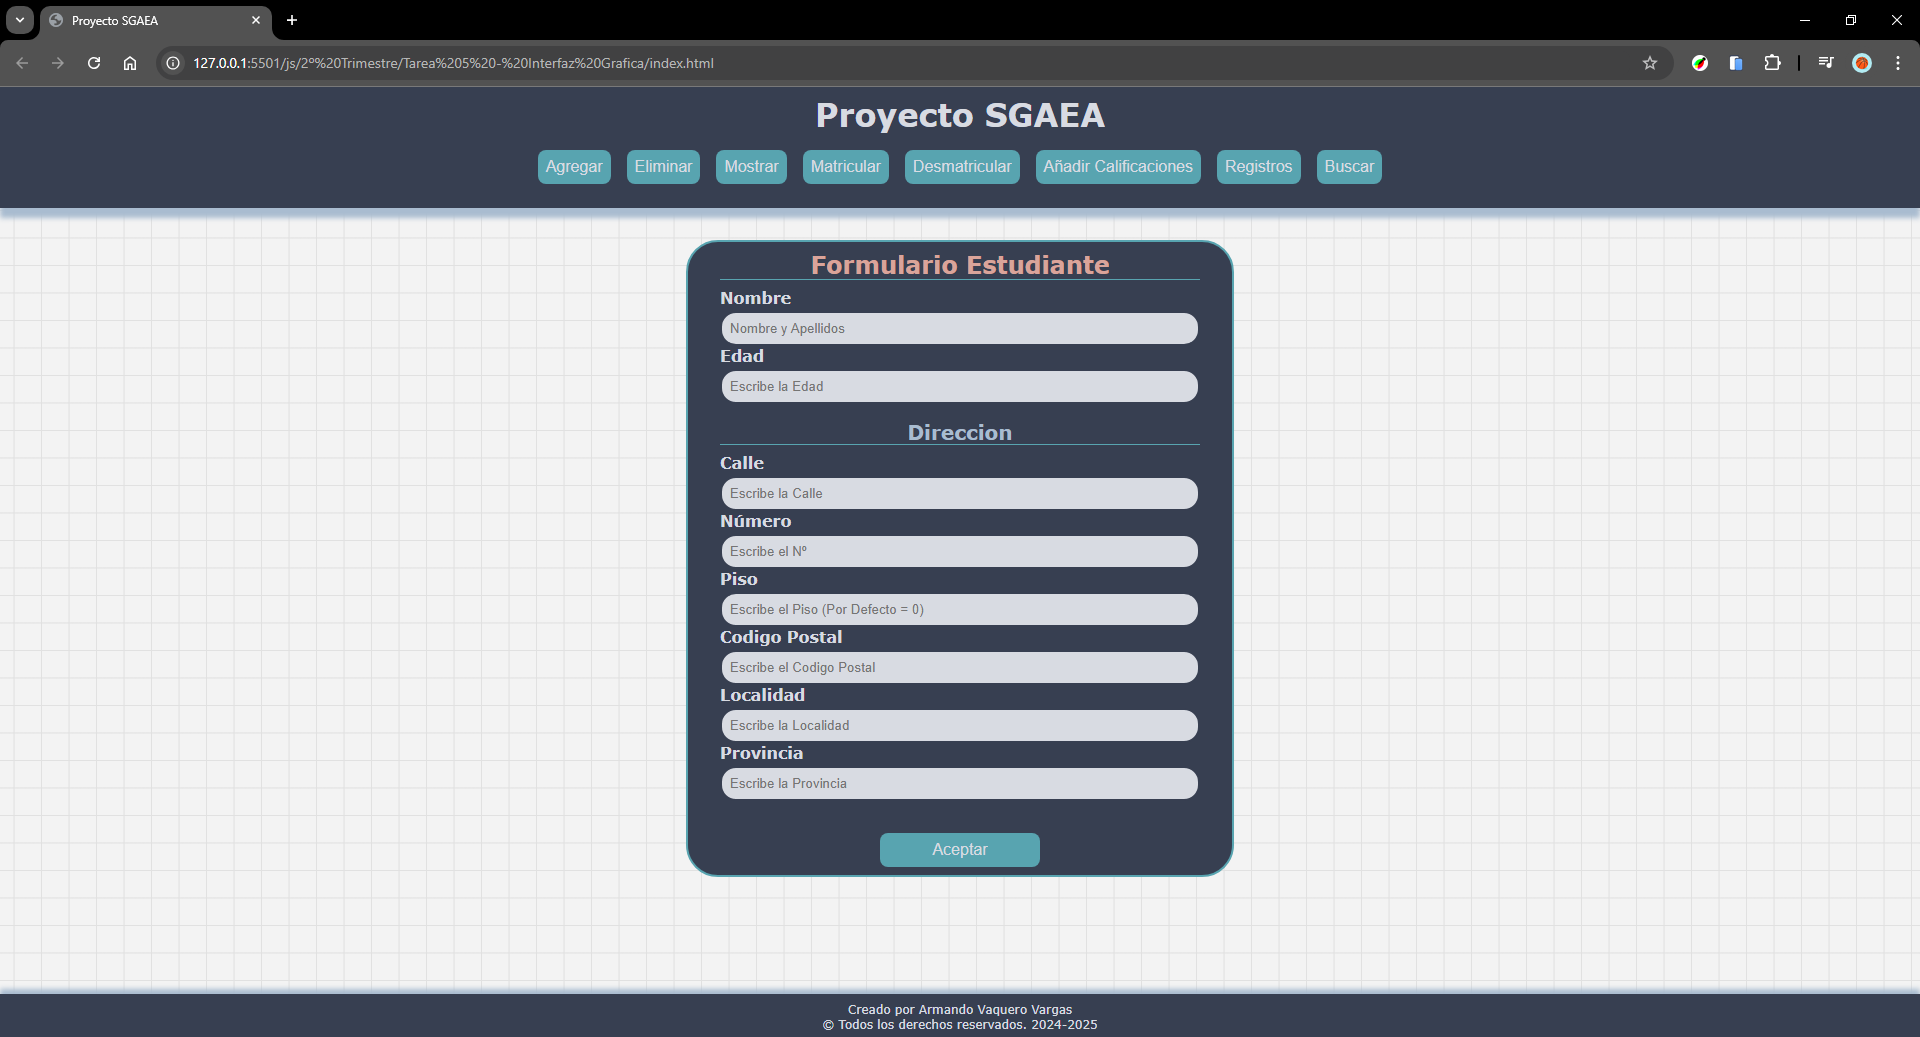
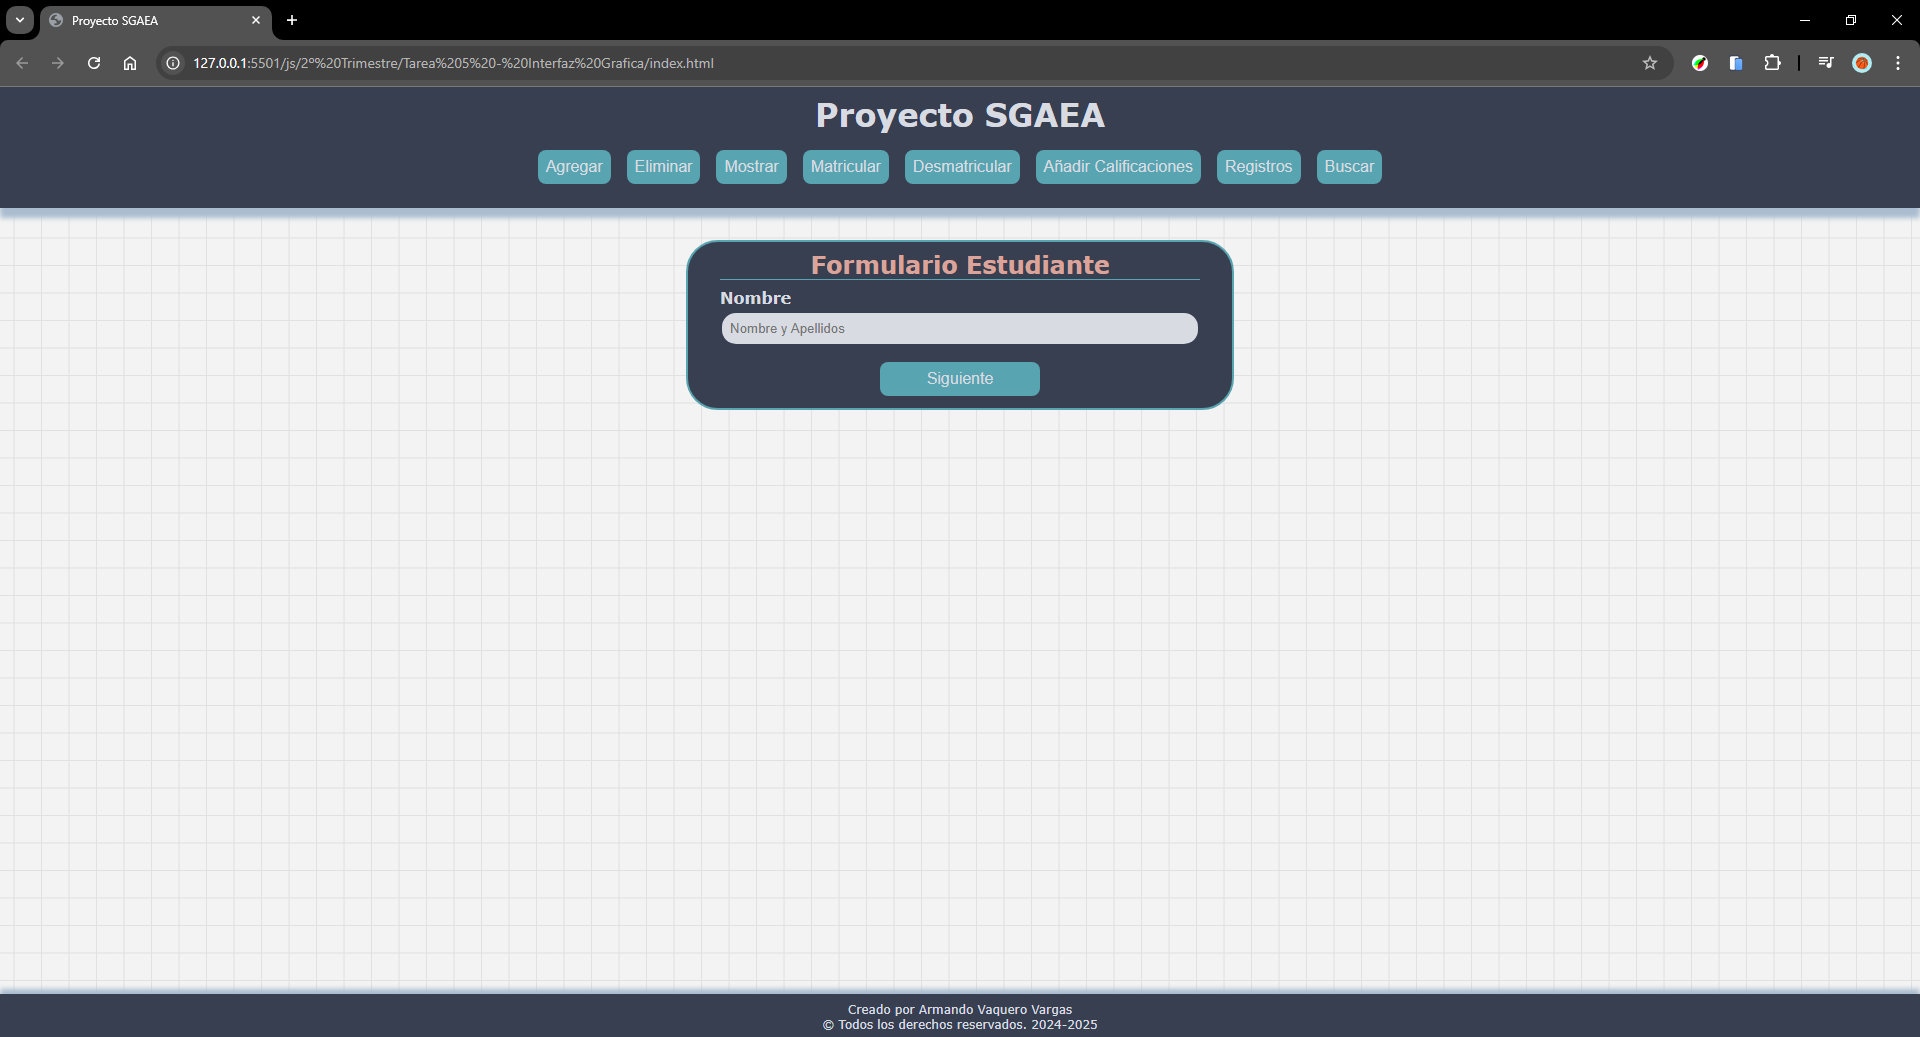
Metodo Agregar Estudiante - Por fases

Changed region(s): [[0.3438, 0.3394, 0.6562, 0.864]]

diff --git a/js/2º Trimestre/Tarea 5 - Interfaz Grafica/Fuente/js/app.js b/js/2º Trimestre/Tarea 5 - Interfaz Grafica/Fuente/js/app.js
@@ -75,41 +75,75 @@ function agregarEstudiante() {
         <form method="post">
             <h1>Formulario Estudiante</h1>
 
-            <label for="nombre">Nombre</label>
-            <input type="text" name="nombre" id="nombre" 
-                pattern="^[A-Za-zÀ-ÿ\\s]+$" placeholder="Nombre y Apellidos" required>
+            <section id="campo-1"> 
+                <label for="nombre">Nombre</label>
+                <input type="text" name="nombre" id="nombre" 
+                    pattern="^[A-Za-zÀ-ÿ\\s]+$" placeholder="Nombre y Apellidos" required>
+                <button type="button" class="siguiente" >Siguiente</button>
+            </section>
 
-            <label for="edad">Edad</label>
-            <input type="number" name="edad" id="edad" 
-                min="6" max="80" placeholder="Escribe la Edad" required>
+            <section class="oculto" id="campo-2">
+                <label for="edad">Edad</label>
+                <input type="number" name="edad" id="edad" 
+                    min="6" max="80" placeholder="Escribe la Edad" required>
+                <button type="button" class="siguiente" >Siguiente</button>
+                <button type="button" class="anterior">Anterior</button>
+            </section>
 
-            <h2>Direccion</h2>
-
-            <label for="calle">Calle</label>
-            <input type="text" name="calle" id="calle" 
-                pattern="^[A-Za-zÀ-ÿ\\s]+$" pattern="" placeholder="Escribe la Calle" required>
-
-            <label for="numero">Número</label>
-            <input type="number" name="numero" id="numero"
-                placeholder="Escribe el Nº" required>
-
-            <label for="piso">Piso</label>
-            <input type="number" name="piso" id="piso"
-                placeholder="Escribe el Piso (Por Defecto = 0)">
+            <section class="oculto" id="campo-3">
+                <h2>Direccion</h2>
+                <label for="calle">Calle</label>
+                <input type="text" name="calle" id="calle" 
+                    pattern="^[A-Za-zÀ-ÿ\\s]+$" pattern="" placeholder="Escribe la Calle" required>
+                <button type="button" class="siguiente" >Siguiente</button>
+                <button type="button" class="anterior">Anterior</button>
+            </section>
             
-            <label for="codPostal">Codigo Postal</label>
-            <input type="number" name="codPostal" id="codPostal" 
-                min="10000" max="99999" placeholder="Escribe el Codigo Postal" required>
+            <section class="oculto" id="campo-4">
+                <h2>Direccion</h2>
+                <label for="numero">Número</label>
+                <input type="number" name="numero" id="numero"
+                    placeholder="Escribe el Nº" required>
+                <button type="button" class="siguiente" >Siguiente</button>
+                <button type="button" class="anterior">Anterior</button>         
+            </section>
 
-            <label for="localidad">Localidad</label>
-            <input type="text" name="localidad" id="localidad" 
-                pattern="^[A-Za-zÀ-ÿ\\s]+$" placeholder="Escribe la Localidad" required>
+            <section class="oculto" id="campo-5">
+                <h2>Direccion</h2>
+                <label for="piso">Piso</label>
+                <input type="number" name="piso" id="piso"
+                    placeholder="Escribe el Piso (Por Defecto = 0)">
+                <button type="button" class="siguiente" >Siguiente</button>
+                <button type="button" class="anterior">Anterior</button>
+            </section>
+            
+            <section class="oculto" id="campo-6">
+                <h2>Direccion</h2>
+                <label for="codPostal">Codigo Postal</label>
+                <input type="number" name="codPostal" id="codPostal" 
+                    min="10000" max="99999" placeholder="Escribe el Codigo Postal" required>
+                <button type="button" class="siguiente" >Siguiente</button>
+                <button type="button" class="anterior">Anterior</button>
+            </section>
 
-            <label for="provincia">Provincia</label>
-            <input type="text" name="provincia" id="provincia"
-                pattern="^[A-Za-zÀ-ÿ\\s]+$" placeholder="Escribe la Provincia" required>
+            <section class="oculto" id="campo-7">
+                <h2>Direccion</h2>
+                <label for="localidad">Localidad</label>
+                <input type="text" name="localidad" id="localidad" 
+                    pattern="^[A-Za-zÀ-ÿ\\s]+$" placeholder="Escribe la Localidad" required>
+                <button type="button" class="siguiente" >Siguiente</button>
+                <button type="button" class="anterior">Anterior</button>
+            </section>
 
-            <button type="submit">Aceptar</button>
+            <section class="oculto" id="campo-8">
+                <h2>Direccion</h2>
+                <label for="provincia">Provincia</label>
+                <input type="text" name="provincia" id="provincia"
+                    pattern="^[A-Za-zÀ-ÿ\\s]+$" placeholder="Escribe la Provincia" required>
+                <button type="submit">Aceptar</button>
+                <button type="button" class="anterior">Anterior</button>
+            </section>
+
         </form>
     `;
 
@@ -203,6 +237,58 @@ function agregarEstudiante() {
         // Muestra el mensaje de error.
         campo.reportValidity();
     }
+
+    const botonSiguiente = document.querySelectorAll(".siguiente");
+
+    // Evento para mostrar el siguiente campo del formulario.
+    botonSiguiente.forEach(boton => {
+
+        /**
+         * @event click
+         * @description Muestra el siguiente campo del formulario al hacer click en el botón "Siguiente".
+         */
+        boton.addEventListener("click", function() {
+            
+            // Se recoge el campo actual y su input.
+            const actual = this.parentElement;
+            const campo = actual.querySelector("input");
+
+            // Si el campo es valido, se oculta el actual y se muestra el siguiente.
+            if (campo.checkValidity()) {
+                actual.style.display = 'none';
+
+                // Se recoge el siguiente campo y se comprueba.
+                const siguiente = actual.nextElementSibling;
+                if (siguiente) {
+                    siguiente.style.display = 'flex';
+                }
+            } else {
+                campo.reportValidity();
+            }
+        });
+    });
+
+    const botonAnterior = document.querySelectorAll(".anterior");
+
+    // Evento para mostrar el anterior campo del formulario.
+    botonAnterior.forEach(boton => {
+        
+        /**
+         * @event click
+         * @description Muestra el anterior campo del formulario al hacer click en el botón "Anterior".
+         */
+        boton.addEventListener("click", function() {
+            
+            // Se recoge el campo actual y se oculta.
+            const actual = this.parentElement;
+            actual.style.display = 'none';
+            
+            const anterior = actual.previousElementSibling;
+            if (anterior) {
+                anterior.style.display = 'flex';
+            }
+        });
+    });
 
     /**
      * @event submit

diff --git a/js/2º Trimestre/Tarea 5 - Interfaz Grafica/Fuente/css/style.css b/js/2º Trimestre/Tarea 5 - Interfaz Grafica/Fuente/css/style.css
@@ -175,6 +175,15 @@ form h1 {
     color: var(--color-salmon);
 }
 
+form section {
+    display: flex;
+    flex-direction: column;
+}
+
+.oculto{
+    display:none;
+}
+
 form h2 {
     font-size: 1.25rem;
     text-align: center;
@@ -203,7 +212,7 @@ input:focus {
 
 form button {
     width: 10rem;
-    margin-top: 2rem;
+    margin: 1rem 0 0.25rem;
     align-self: center;
 }
 

diff --git a/js/2º Trimestre/Tarea 5 - Interfaz Grafica/README.md b/js/2º Trimestre/Tarea 5 - Interfaz Grafica/README.md
@@ -52,7 +52,7 @@ En este apartado voy a explicar las funciones principales de mi programa y los c
 #### 3.1. Funciones Principales
 Las funcionalidades principales de mi programa (que están en `app.js`) son las siguientes:
 - ***menuSecundario(accion)***: Esta función muestra un menú en el que hay que seleccionar *Estudiante* o *Asignatura*, y dependiendo de lo que pulses y de la acción que se pase por paramentros, llamará a otra función de *Estudiante* o de *Asignatura*.
-- ***agregarEstudiante()***: Muestra un formulario con los datos necesarios para crear un *Estudiante*, se valida el formulario y se crea.
+- ***agregarEstudiante()***: Muestra un formulario en el que se muestra un campo, si ese campo esta correcte puedes pasar al siguiente o al anteior, permitiendo crear *Estudiante*.
 - ***agregarAsignatura()***: Misma funcionalidad que el anterior, pero para *Asignatura*.
 - ***eliminarEstudiante()***: Muestra una tabla con el nombre, el id del *Estudiante* y un botón que servirá para indicar qué *Estudiante* queremos eliminar.
 - ***eliminarAsignatura()***: Misma funcionalidad que el anterior, pero para *Asignatura*.
